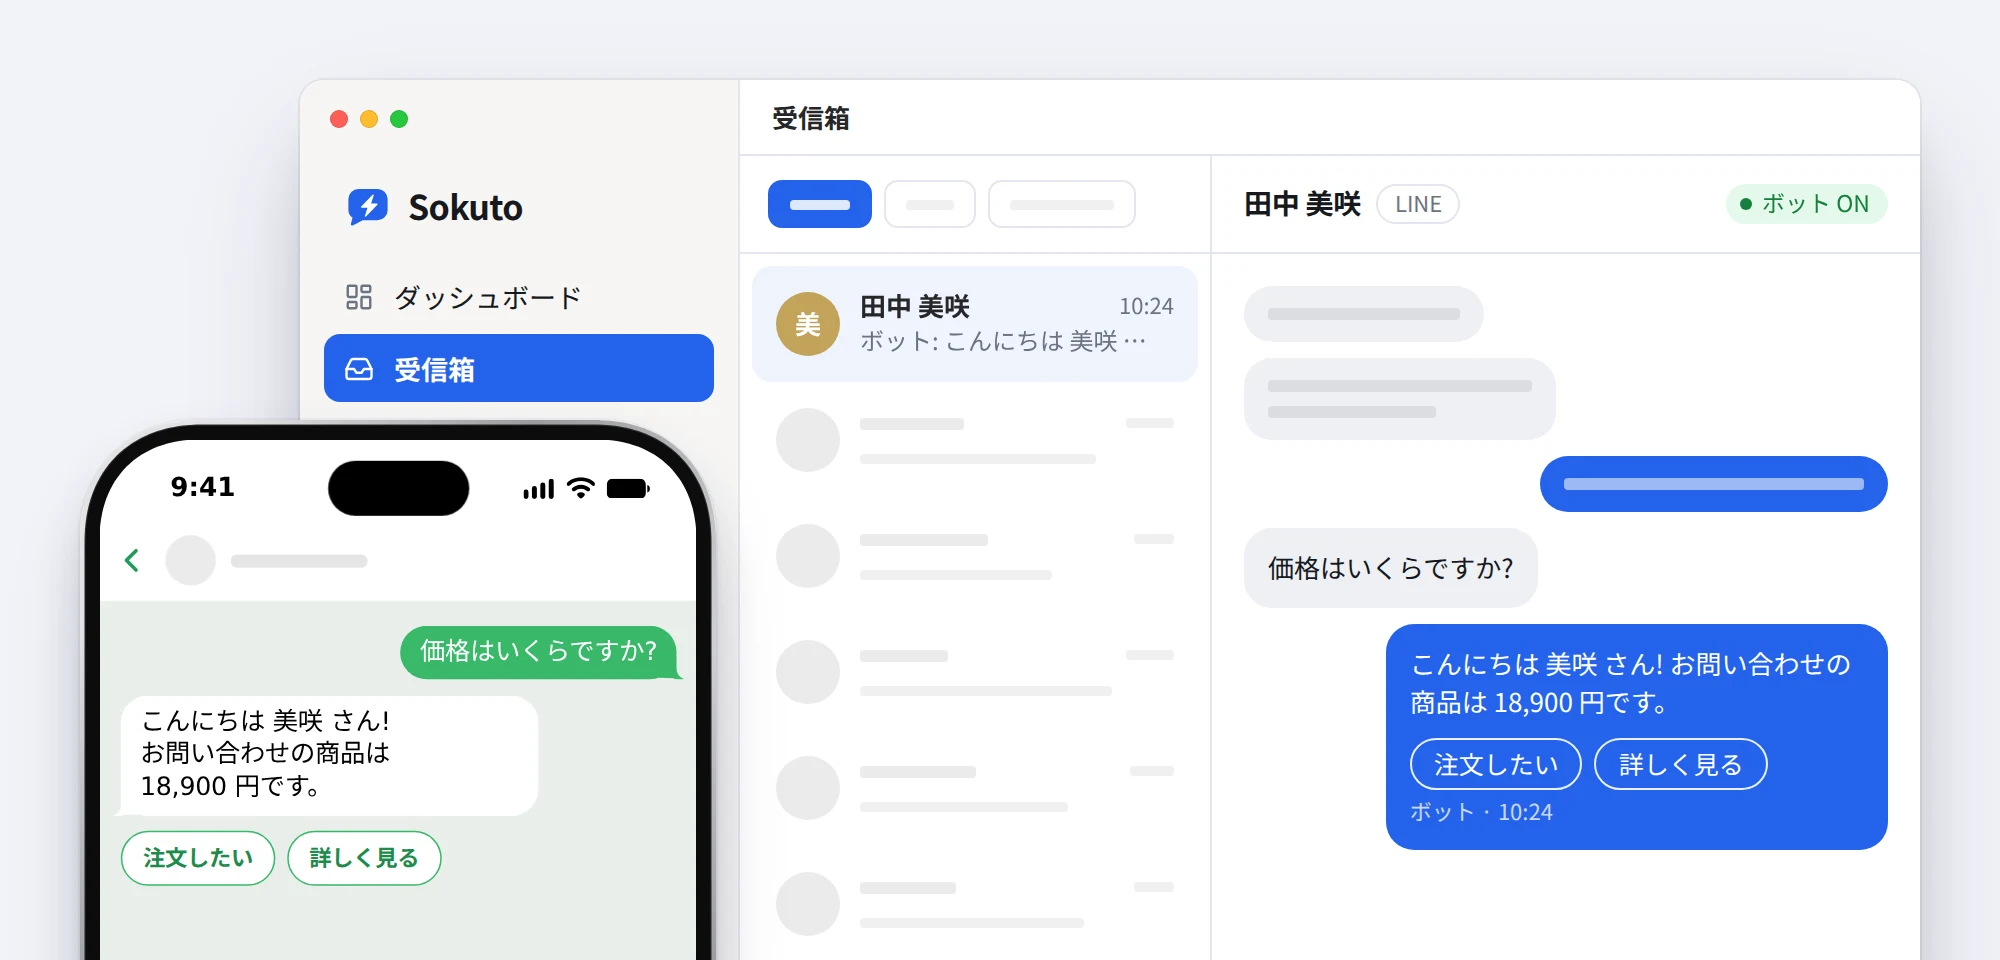
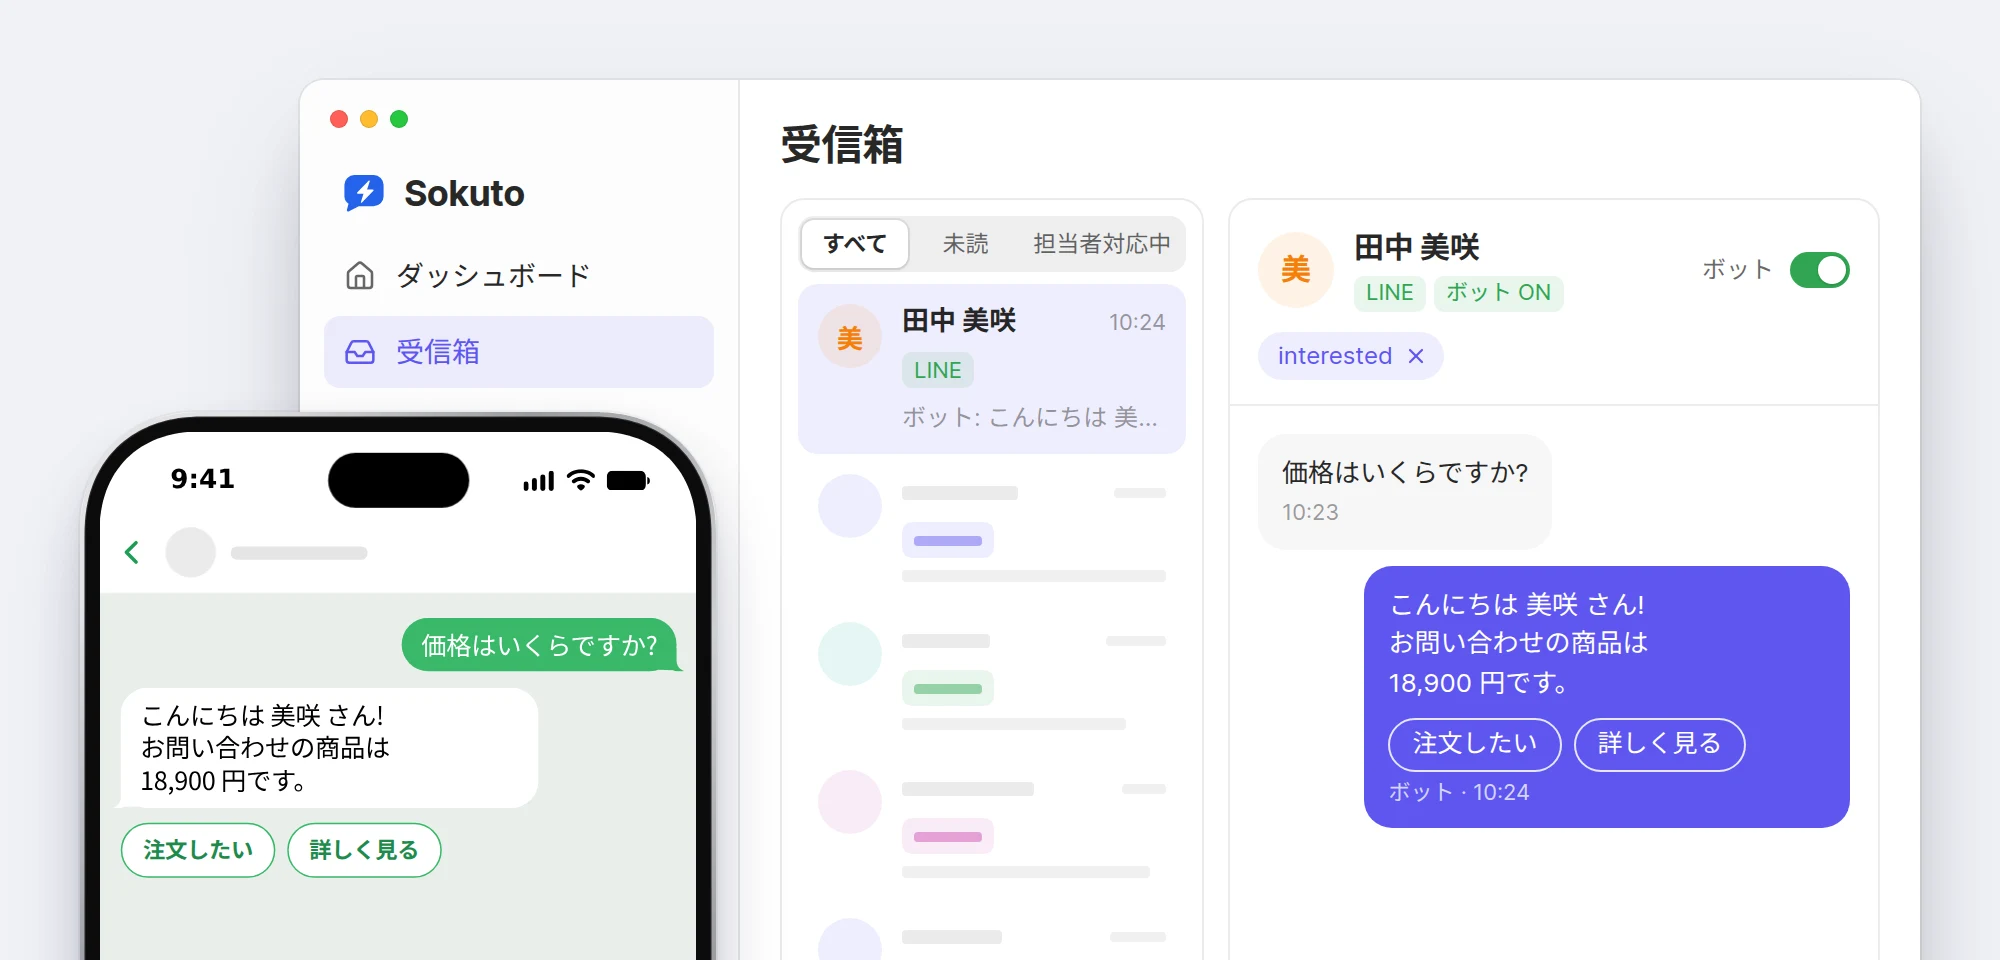
Remove legacy CSS and code-split admin pages

diff --git a/admin/src/styles.css b/admin/src/styles.css
@@ -42,7 +42,6 @@
   code, .mono { font-family: var(--font-family-mono); font-size: 0.92em; }
 }
 .tabular { font-variant-numeric: tabular-nums; }
-.wrap-anywhere { overflow-wrap: anywhere; }
 .visually-hidden {
   position: absolute !important; width: 1px; height: 1px; padding: 0; margin: -1px;
   overflow: hidden; clip: rect(0 0 0 0); white-space: nowrap; border: 0;
@@ -202,11 +201,11 @@
 .bubble.out { align-self: flex-end; background: var(--bgtxt-blue-normal); color: var(--bgtxt-absolute-white-dark); border-bottom-right-radius: var(--radius-4); }
 .bubble .meta { margin-top: 2px; font-size: 11px; opacity: 0.75; }
 /* Failed outbound message: clearly not "sent". */
-.bubble.failed, .bubble.error {
+.bubble.failed {
   background: var(--bgtxt-red-lightest); color: var(--txt-black-darkest);
   border: 1px solid var(--bgtxt-red-normal);
 }
-.bubble.failed .meta, .bubble.error .meta, .bubble-error { color: var(--bgtxt-red-dark); opacity: 1; }
+.bubble.failed .meta, .bubble-error { color: var(--bgtxt-red-dark); opacity: 1; }
 
 .chips { display: flex; flex-wrap: wrap; gap: 6px; margin-top: 6px; }
 .chip {
@@ -241,54 +240,4 @@
   max-width: calc(100vw - 16px); overflow-x: auto;
   padding: 4px; border-radius: var(--radius-8);
   background: var(--bg-white-high); box-shadow: var(--ev-3);
-}
-
-/* ==========================================================================
- * LEGACY (pages not yet migrated to Bezier). Do NOT use in new code; delete each rule
- * once no page references it. Class selectors only, so Bezier internals are untouched.
- * ========================================================================== */
-.row { display: flex; gap: 8px; align-items: center; flex-wrap: wrap; }
-.muted { color: var(--txt-black-dark); }
-.small { font-size: 13px; }
-.grid { display: grid; gap: 12px; grid-template-columns: repeat(auto-fill, minmax(180px, 1fr)); }
-.page-title { display: flex; align-items: center; justify-content: space-between; gap: 12px; margin: 0 0 16px; flex-wrap: wrap; }
-.page-title h1 { font-size: 22px; margin: 0; overflow-wrap: anywhere; }
-.card h2 { font-size: 16px; }
-:not(.stack) > .card + .card { margin-top: 16px; }
-.btn {
-  display: inline-flex; align-items: center; gap: 6px; padding: 7px 14px; cursor: pointer; white-space: nowrap;
-  font: inherit; font-size: 14px; color: var(--txt-black-darkest);
-  background: var(--bg-white-normal); border: 1px solid var(--bdr-black-light); border-radius: var(--radius-8);
-}
-.btn:hover { background: var(--bg-black-lightest); }
-.btn.primary { background: var(--bgtxt-blue-normal); border-color: transparent; color: var(--bgtxt-absolute-white-dark); }
-.btn.danger { color: var(--bgtxt-red-normal); }
-.btn.small { padding: 3px 10px; font-size: 13px; }
-.btn:disabled { opacity: 0.5; cursor: default; }
-.badge { display: inline-block; font-size: 12px; padding: 1px 8px; border-radius: var(--radius-32); background: var(--bg-black-lighter); color: var(--txt-black-darker); }
-.badge.live { background: var(--bgtxt-green-lightest); color: var(--bgtxt-green-normal); }
-.badge.tag { background: var(--bgtxt-blue-lightest); color: var(--bgtxt-blue-normal); }
-.alert { padding: 10px 12px; border-radius: var(--radius-8); margin: 8px 0; white-space: pre-wrap; overflow-wrap: anywhere; }
-.alert.error { background: var(--bgtxt-red-lightest); color: var(--bgtxt-red-dark); }
-.alert.ok { background: var(--bgtxt-green-lightest); color: var(--bgtxt-green-dark); }
-.alert.warn { background: var(--bgtxt-orange-lightest); color: var(--bgtxt-orange-dark); }
-.alert.info { background: var(--bgtxt-blue-lightest); color: var(--bgtxt-blue-dark); }
-.inline-fields { display: grid; grid-template-columns: 1fr 1fr; gap: 8px; }
-.code-box { padding: 8px 10px; background: var(--bg-black-lightest); border: 1px solid var(--bdr-black-light); border-radius: var(--radius-8); overflow-wrap: anywhere; }
-.list-item, .step-card { padding: 12px; margin-bottom: 10px; border: 1px solid var(--bdr-black-light); border-radius: var(--radius-10); background: var(--bg-white-normal); }
-.inbox { display: grid; grid-template-columns: 300px 1fr; gap: 16px; min-height: 70vh; }
-.conv-list, .chat { background: var(--bg-white-normal); border: 1px solid var(--bdr-black-light); border-radius: var(--radius-12); max-height: 75vh; overflow: auto; }
-.chat { display: flex; flex-direction: column; }
-.chat .messages { flex: 1; overflow: auto; padding: 16px; display: flex; flex-direction: column; gap: 8px; }
-.chat .composer { border-top: 1px solid var(--bdr-black-light); padding: 10px; display: flex; gap: 8px; }
-.conv { padding: 10px 12px; border-bottom: 1px solid var(--bdr-black-light); cursor: pointer; }
-.conv.active { background: var(--bgtxt-blue-lightest); }
-.conv .preview { color: var(--txt-black-dark); font-size: 13px; white-space: nowrap; overflow: hidden; text-overflow: ellipsis; }
-.editor { display: grid; grid-template-columns: 1fr 360px; gap: 16px; }
-.unread-dot { display: inline-block; width: 8px; height: 8px; background: var(--bgtxt-blue-normal); border-radius: 50%; }
-.bar { display: flex; align-items: flex-end; gap: 3px; height: 120px; }
-.bar div { flex: 1; min-width: 4px; background: var(--bgtxt-blue-normal); border-radius: 3px 3px 0 0; }
-@media (max-width: 860px) {
-  .inbox, .editor, .inline-fields { grid-template-columns: 1fr; }
-  .inbox.has-selection .conv-list { display: none; }
 }

diff --git a/admin/src/App.tsx b/admin/src/App.tsx
@@ -1,4 +1,4 @@
-import { useCallback, useEffect, useLayoutEffect, useRef, useState, type MouseEvent } from 'react'
+import { Suspense, lazy, useCallback, useEffect, useLayoutEffect, useRef, useState, type MouseEvent } from 'react'
 import { Navigate, Route, Routes, matchPath, useLocation, useNavigate } from 'react-router-dom'
 import { Button, Icon, NavItem, SegmentedControl, SegmentedControlItem, Text } from '@channel.io/bezier-react'
 import {
@@ -21,15 +21,18 @@ import { LangContext, initialLang, useLang, useT, type Key, type Lang } from './
 import { useTheme, type ThemePref } from './lib/theme'
 import { LoadingState, SokutoMark } from './components'
 import Login from './pages/Login'
-import Dashboard from './pages/Dashboard'
-import Channels from './pages/Channels'
-import Flows from './pages/Flows'
-import FlowEditor from './pages/FlowEditor'
-import Inbox from './pages/Inbox'
-import Contacts from './pages/Contacts'
-import Broadcasts from './pages/Broadcasts'
-import Reports from './pages/Reports'
-import Settings from './pages/Settings'
+
+// Pages behind the login are split into their own chunks (each page imports its own CSS).
+// Login stays eager: it is the first screen for a signed-out user.
+const Dashboard = lazy(() => import('./pages/Dashboard'))
+const Channels = lazy(() => import('./pages/Channels'))
+const Flows = lazy(() => import('./pages/Flows'))
+const FlowEditor = lazy(() => import('./pages/FlowEditor'))
+const Inbox = lazy(() => import('./pages/Inbox'))
+const Contacts = lazy(() => import('./pages/Contacts'))
+const Broadcasts = lazy(() => import('./pages/Broadcasts'))
+const Reports = lazy(() => import('./pages/Reports'))
+const Settings = lazy(() => import('./pages/Settings'))
 
 type AuthState = { loading: boolean; setupRequired: boolean; authenticated: boolean }
 
@@ -173,19 +176,21 @@ function Shell({ onLogout }: { onLogout: () => void }) {
       </aside>
       <main className="main">
         <div className="main__inner">
-          <Routes>
-            <Route path="/" element={<Dashboard />} />
-            <Route path="/inbox" element={<Inbox />} />
-            <Route path="/inbox/:id" element={<Inbox />} />
-            <Route path="/flows" element={<Flows />} />
-            <Route path="/flows/:id" element={<FlowEditor />} />
-            <Route path="/contacts" element={<Contacts />} />
-            <Route path="/broadcasts" element={<Broadcasts />} />
-            <Route path="/reports" element={<Reports />} />
-            <Route path="/channels" element={<Channels />} />
-            <Route path="/settings" element={<Settings />} />
-            <Route path="*" element={<Navigate to="/" replace />} />
-          </Routes>
+          <Suspense fallback={<LoadingState />}>
+            <Routes>
+              <Route path="/" element={<Dashboard />} />
+              <Route path="/inbox" element={<Inbox />} />
+              <Route path="/inbox/:id" element={<Inbox />} />
+              <Route path="/flows" element={<Flows />} />
+              <Route path="/flows/:id" element={<FlowEditor />} />
+              <Route path="/contacts" element={<Contacts />} />
+              <Route path="/broadcasts" element={<Broadcasts />} />
+              <Route path="/reports" element={<Reports />} />
+              <Route path="/channels" element={<Channels />} />
+              <Route path="/settings" element={<Settings />} />
+              <Route path="*" element={<Navigate to="/" replace />} />
+            </Routes>
+          </Suspense>
         </div>
       </main>
     </div>

diff --git a/vite.config.ts b/vite.config.ts
@@ -11,6 +11,21 @@ export default defineConfig({
   build: {
     outDir: '../dist/client',
     emptyOutDir: true,
+    // Vite 8 bundles with Rolldown: `codeSplitting.groups` replaces Rollup's `manualChunks`
+    // (Rolldown only supports the deprecated function form). Framework + Bezier go into one
+    // long-lived `vendor` chunk so the small per-page app chunks can change without busting it.
+    rolldownOptions: {
+      output: {
+        codeSplitting: {
+          groups: [
+            {
+              name: 'vendor',
+              test: /[\\/]node_modules[\\/](@channel\.io[\\/]bezier-(react|icons)|react|react-dom|react-router|react-router-dom|scheduler)[\\/]/,
+            },
+          ],
+        },
+      },
+    },
   },
   server: {
     port: 5173,

diff --git a/admin/src/pages/channels.css b/admin/src/pages/channels.css
@@ -18,5 +18,3 @@
   font-size: 11px; font-weight: 700; font-variant-numeric: tabular-nums;
 }
 .ch-guide__text { min-width: 0; font-size: 13px; line-height: 20px; color: var(--txt-black-darker); overflow-wrap: anywhere; }
-/* Cancel the legacy `.card + .card` top margin inside the grid. */
-.ch-grid.ch-grid.ch-grid > .card { margin-top: 0; }

diff --git a/admin/src/components/README.md b/admin/src/components/README.md
@@ -19,7 +19,7 @@ Ground truth for props is `node_modules/@channel.io/bezier-react/dist/types/comp
 - Bezier puts its CSS in cascade layers (`@layer tokens, base, components`). **Any unlayered rule in our `styles.css` beats any Bezier rule regardless of specificity.** So never write element selectors (`a`, `input`, `button`, `table`…) unlayered: they would restyle Bezier internals. Element defaults go inside `@layer base { … }` (see top of `styles.css`); custom classes stay unlayered.
 - Bezier's base sets `:root { font-size: 62.5% }` → `1rem = 10px`. Use px.
 - Bezier class names are hashed; target Bezier internals only through your own `className` or ARIA attributes (`[role='menuitem']`).
-- `styles.css` has a `LEGACY` block at the bottom for pages not migrated yet. Do not use those classes (`.btn`, `.row`, `.muted`, `.alert`, `.badge`, `.grid`, `.page-title`, `.inline-fields`, `.code-box`, `.list-item`, `.step-card`, `.conv*`, `.editor`, `.bar`, …) in new code; delete a legacy rule when the last page using it is migrated.
+- All pages are migrated; the pre-Bezier `LEGACY` block in `styles.css` is gone. Do not reintroduce generic utility classes (`.btn`, `.row`, `.muted`, `.alert`, `.badge`, `.grid`, …): use Bezier components and page-prefixed classes in `pages/<page>.css`.
 - Useful variables: surfaces `--bg-white-normal` (cards), `--bg-grey-lightest` (page), `--bg-black-lightest` / `--bg-black-lighter` (subtle fills, hover); text `--txt-black-darkest` / `-darker` / `-dark` (primary / secondary / tertiary); borders `--bdr-black-light`; accents `--bgtxt-{blue,red,green,orange,…}-{lightest,lighter,normal,dark}`; radii `--radius-6/8/12/16/32`; shadows `--ev-1…6`; mono `--font-family-mono`.
 
 ## Layout rules
